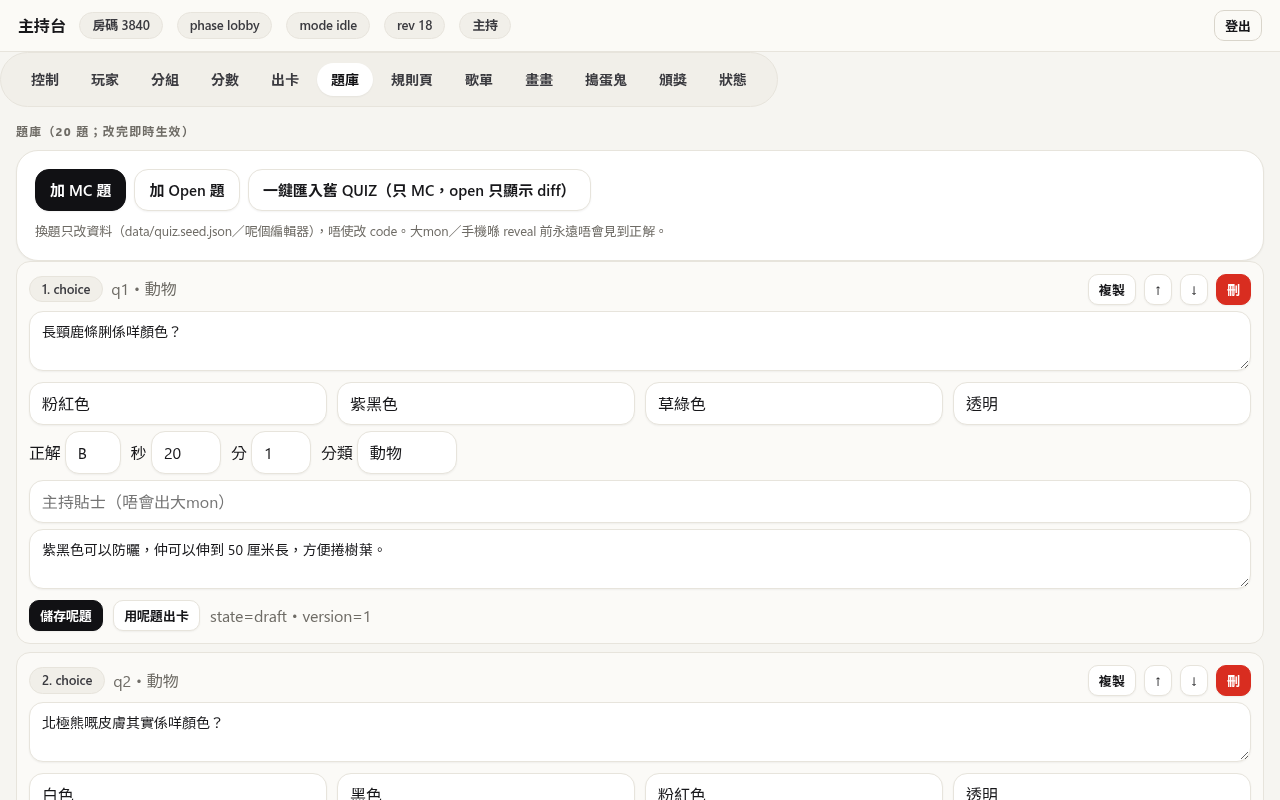
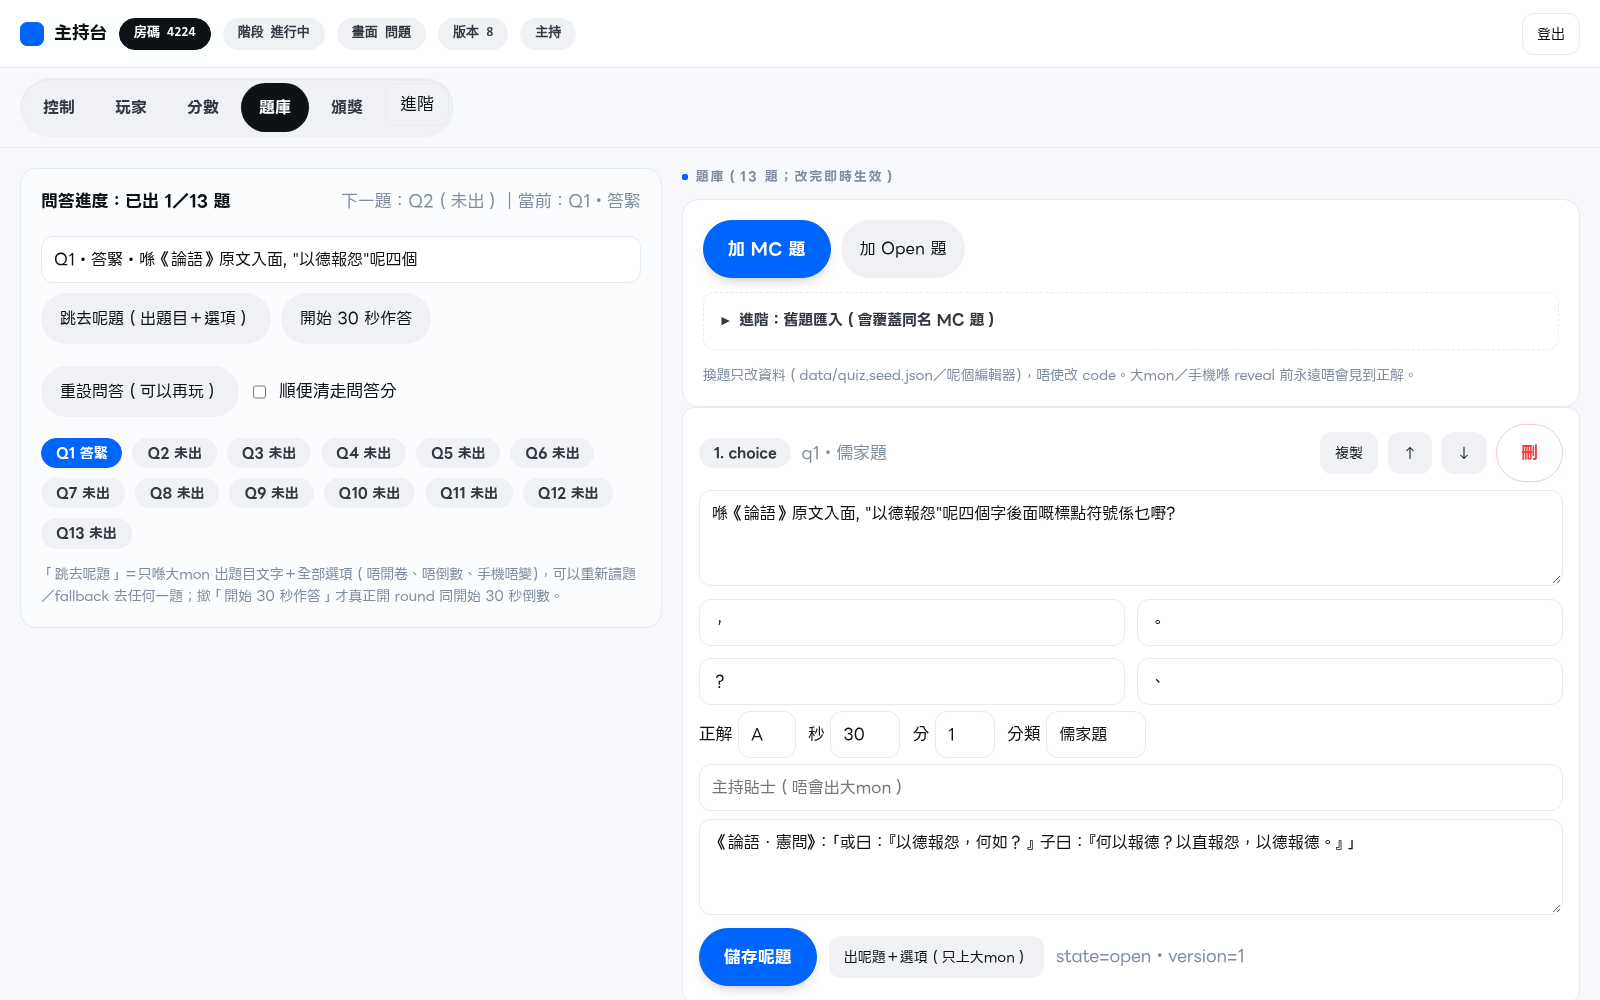
docs(readme): 更新至 v0.4.6＋重拍三端截圖
- README 由 v0.2.0 舊內容改成現行 v0.4.6：四關玩法、計分、架構、測試、部署
- 重拍 8 張真 browser 截圖（大mon 入場／規則／問答／分數板、主持台控制／題庫、手機入場／問答）
- 修正一圖多人規則頁「最後未被 foul：每人 +2」為「未被 foul 嘅臥底留到最後：再 +2」（跟 v0.4.6 計分）

diff --git a/README.md b/README.md
@@ -2,28 +2,41 @@
 
 > 一個為生日派對而設嘅本地多人派對遊戲平台：**一個後端、三個前端（大mon／主持台／手機）、四關遊戲、一套 6 種卡嘅引擎**。
 > 派對主題：**《關於我初試策劃圍威喂這檔事》**
-> 現時版本：**v0.2.0**（Doubao 淺色視覺 ＋ 大mon 專用字體）
+> 現時版本：**v0.4.6**（Doubao 淺色視覺 ＋ 大mon 思緒重生體）
 
 ## 呢個 repo 係咩
 
-- 全部 TypeScript（strict）＋ Node 26 LTS（fastify + @fastify/websocket + @fastify/static），單 process。
-- 部署目標：Windows server Docker，host port `30005` → 容器 `3000`；對外經 Cloudflare Tunnel。
-- 四關遊戲：**拍賣估歌／畫畫猜人／搗蛋鬼／常識問答**；每關有規則頁（大mon 入關自動顯示、後台可編輯）。
+- 全部 TypeScript（strict）＋ Node 26 LTS（fastify + `@fastify/websocket` + `@fastify/static`），單 process。
+- 部署目標：Windows server Docker，host port `30005` → 容器 `3000`；對外經 Cloudflare Tunnel（`/host` 同 `/api/host/*` 再加 Cloudflare Access）。
+- 四關跟壽星流程：**一圖多人畫畫猜／拍賣時間估歌／笨蛋殺手／問答環節**；每關有規則頁（大mon 入關自動顯示、主持台可編輯）。
 - 計分＝**事件帳簿**（加錯用 void 標記作廢，唔刪紀錄）；JSONL journal（manifest＋segment＋sha256＋fsync）做唯一真相，重啟 replay。
-- 手機只做單向提交（投票／問答／出價），大mon 唯讀，主持台係唯一可以改大mon 嘅人。
+- 手機只做單向提交（投票／問答／競投），大mon 唯讀，主持台係唯一可以改大mon 嘅人。
+
+## 四關遊戲（現行 v0.4.x）
+
+| 關 | 玩法 | 計分 |
+|---|---|---|
+| **一圖多人畫畫猜** | 開局抽 2 個臥底＋3 對題；每人同一張大紙輪流畫 5 秒；公佈好人題目；手機 10 秒投最似臥底；foul 晒所有臥底＝好人即刻贏，3 題後仲有臥底＝臥底贏 | 好人贏全部好人 +1／臥底贏全部臥底 +1／**未被 foul 嘅臥底留到最後再 +2** |
+| **拍賣時間估歌** | 大mon 10 秒倒數；手機撳「競投」＝當刻剩餘秒數（最少 1 秒）；**最少秒數先聽，同秒最後撳先**；主持公佈排名、自己播歌、逐位判分 | 答對 +1；答錯去下一位 |
+| **笨蛋殺手** | 主持抽 1 老闆＋1 殺手（身份只喺主持台）；紙本執行 3 粒子彈殺兩人；主持揭曉同加分 | 主持手動加分（計入分項結算） |
+| **問答環節** | 13 題、30 秒；主持可先出「題目＋選項」唔倒數，準備好先開始作答；先公佈分佈、後公佈答案；Q12 ±2 尺容差、Q13 主持即場入真實答案 | MC 答對 +1；Q13 完全答中 +2 |
+
+結算畫面有**逐關分項矩陣＋總排行榜**，頒獎三個獎：**最高分獎／中庸之道獎（最接近平均數）／多謝參與獎**。
 
 ## 功能一覽
 
 | 模組 | 內容 |
 |---|---|
-| 入場 | 手機掃 QR／用房碼入場，自訂名＋emoji 頭像，主持 approve |
+| 入場 | 手機掃 QR／用房碼入場，自訂名＋emoji 頭像，主持 approve／踢人；入場後揀頭像唔會清空個名 |
+| 流程 | 預設 rundown：一圖多人 → 拍賣 → 笨蛋殺手 → 問答；主持可上一關／跳過／重設流程（返第一關）、逐關規則頁 |
 | 計分帳簿 | 逐筆 event、undo／void、換組（跟人走／留原組）、每關 checkpoint、`/api/host/export` CSV＋room.json |
-| 問答關 | 題庫資料化（`data/quiz.seed.json`，20 題 seed）、question→tally→reveal、MC 20 秒自動收卷、open 評分、Q14 時間題自動計、重開題 roundId void |
-| 估歌關 | 密封出價（stage 只出人數）、同價先交者贏、結算 §5.1、media deck＋AudioLease（單一音源／離線接管／防雙響） |
-| 畫畫關 | 上載作品牆、vote 最似、主持評分、magic bytes／size／quota 檢查 |
-| 搗蛋鬼 | 版本 A（潛伏者）：身份只送本人、兩輪投票、淘汰、平票裁決、計分 |
-| 收尾 | finale、頒獎三獎（最高分／最接近中位數／最低分）、常駐分數條、PWA meta |
-| 穩定度 | WS 自動重連＋resync、clock offset（≤0.5s）、commandId 冪等、5 個連線 cap、production 拒啟動檢查 |
+| 一圖多人 | 完整局狀態機（抽身份／重抽／公佈題目／10 秒投票／foul／下一題／結算）；`matchUid` 令重設再玩都唔會漏派分；同票／零票有裁決路徑 |
+| 拍賣 | 密封「剩餘秒數」競投、持久提交順序判同秒、排名／判分／完結分開、零人競投可跳下一首、**唔限歌曲數**（`bid.next` 自動建卡） |
+| 問答 | 題庫資料化（13 題 seed）、出題目／開始作答／公佈分佈／公佈答案／重設問答；題目監控 panel＋可跳題；舊 payload 兼容 |
+| 大mon | Doubao 淺色、思緒重生體（數字 fallback 系統字）、QR＋房碼紙卡、規則頁、倒數 pill、分數板、排行榜、逐關結算、頒獎、ticker；26–30 人自動分欄 |
+| 主持台 | 5 個主 tab（控制／玩家／分數／題庫／頒獎）＋「進階」；大mon 同步狀態、鎖定／黑屏、緊急返 QR；流程掣 v0.4.6 統一 2×2 |
+| 手機 | 加入／等待批准／身份／投票／問答／競投／出局提示；倒數跟 server 時鐘；PWA meta＋LINE Seed TW 字體 |
+| 穩定度 | WS 自動重連＋resync、clock offset（≤0.5s）、`commandId` 冪等、連線 cap、production 拒啟動檢查、render error boundary |
 
 ## 架構
 
@@ -37,29 +50,64 @@
 ```
 
 - `/stage` `/play` `/ws` 公開；`/host` 同 `/api/host/*` 由 Cloudflare Access＋PIN 雙重保護。
-- 狀態機主從：`open → close → tally → reveal`；公開 DTO 同 server 私有模型分開（role-filtered view）。
-- 詳細規格：[`docs/PLAN-v3.1.md`](docs/PLAN-v3.1.md)（唯一權威，969 行，D1–D34）、[`docs/00-INDEX.md`](docs/00-INDEX.md)。
+- 狀態機主從：`open → close → tally → reveal`；公開 DTO 同 server 私有模型分開（role-filtered view），臥底身份／臥底題只送主持台。
+- 詳細規格：[`docs/PLAN-v3.1.md`](docs/PLAN-v3.1.md)（唯一權威）、[`docs/00-INDEX.md`](docs/00-INDEX.md)、規則頁對照：[`platform/docs/RULES-v0.4.md`](platform/docs/RULES-v0.4.md)。
+
+## 介面
+
+> 以下截圖係 **v0.4.6** 真 browser 截圖（1600×1000 大mon／主持台，430×900 手機）。
+
+| 大mon：入場 QR／房碼 | 大mon：關卡規則頁 |
+|---|---|
+| ![大mon 入場](screenshots/stage-lobby.png) | ![大mon 規則頁](screenshots/stage-rules.png) |
+
+| 大mon：問答 30 秒 | 大mon：分數板 |
+|---|---|
+| ![大mon 問答](screenshots/stage-quiz.png) | ![大mon 分數板](screenshots/stage-scoreboard.png) |
+
+| 主持台：控制 | 主持台：題庫＋題目監控 |
+|---|---|
+| ![主持台控制](screenshots/host-control.png) | ![主持台題庫](screenshots/host-quiz.png) |
+
+| 手機：入場 | 手機：問答 |
+|---|---|
+| ![手機入場](screenshots/play-join.png) | ![手機問答](screenshots/play.png) |
 
 ## 快速開始（本機）
+
+需求：Node **26.x**（`engines: >=26 <27`）。
 
 ```bash
 cd platform
 npm ci
 npm run build
-cp .env.example .env      # 設 PIN（6–12 位數字，唔准用 000000 等 default）
+cp .env.example .env      # 設 PIN（6–12 位數字，唔准用 000000／123456 等 default）
 npm start                 # http://localhost:3000/stage  /host  /play
 ```
 
-測試：
+開發模式（唔使 build）：
 
 ```bash
-npm test                  # unit（journal／計分／頒獎邊界…）
-node bots/bots.mjs        # 30 bots 併發驗收（M0）
-node bots/m1.mjs          # 問答關驗收（M1）
-node bots/m2.mjs          # 估歌＋media deck（M2）
-node bots/m3.mjs          # 畫畫（M3）
-node bots/m4.mjs          # 搗蛋鬼（M4）
-node bots/m5.mjs          # finale／頒獎／export（M5）
+PIN=246810 NODE_ENV=development npm run dev
+```
+
+想本機快速試多幾個玩家，可以開 `AUTO_APPROVE=1`（只限測試；正式場要主持逐個 approve）。
+
+## 測試
+
+```bash
+cd platform
+npm test                  # node:test：213 個 test，全部綠燈（v0.4.6）
+```
+
+`bots/` 保留 M0–M5 壓測／驗收腳本（真 HTTP＋真 WebSocket），需要先起 server：
+
+```bash
+BASE=http://127.0.0.1:3000 PIN=246810 node bots/bots.mjs   # 30 bots 併發＋連線 cap
+BASE=http://127.0.0.1:3000 PIN=246810 node bots/m1.mjs     # 問答／規則頁
+BASE=http://127.0.0.1:3000 PIN=246810 node bots/m2.mjs     # 拍賣＋media deck
+BASE=http://127.0.0.1:3000 PIN=246810 node bots/skew.mjs   # 時鐘 skew
+BASE=http://127.0.0.1:3000 PIN=246810 node bots/fault.mjs  # fault injection
 ```
 
 ## Docker 部署（Windows server）
@@ -74,54 +122,41 @@ curl http://127.0.0.1:30005/api/ready
 
 - `Dockerfile`：multi-stage（`node:26-alpine` build → runtime 只帶 `dist/`＋production deps）。
 - `docker-compose.yml`：`30005:3000`、`./data` `./media` volume、`restart: unless-stopped`、healthcheck `/api/ready`。
+- 上線要喺 Cloudflare 做兩條 Access policy（`/host`、`/api/host/*`），再設 `ACCESS_REQUIRED=1` 同正確 `PUBLIC_ORIGINS`。
 - Runbook（起機／PIN／房碼／checkpoint／熱點後路／Cloudflare 上線清單）：[`platform/RUNBOOK.md`](platform/RUNBOOK.md)。
-
-## 驗收紀錄
-
-`evidence/` 入面係每個 milestone 嘅原始測試 log（本機＋部署機各跑一次）：
-
-| Milestone | 結果 |
-|---|---|
-| M0 骨架＋部署底 | bots 22/22、fault injection 5/5、skew 極差 101ms（對照 3000ms） |
-| M1 問答＋規則頁 | 28/28 |
-| M2 估歌＋media deck | 22/22 |
-| M3 畫畫 | 10/10 |
-| M4 搗蛋鬼 | 9/9 |
-| M5 finale／頒獎／export | 11/11 |
-
-`check/` 入面係真模型（GLM-5.3／deepseek-v4-pro）逐個 milestone 嘅 code review 同最終 audit（每份報告第一行都有 `<!-- llm-call-meta -->` 記低 response_model／finish_reason）。
-
-## Screenshots
-
-| 大mon | 手機 |
-|---|---|
-| ![stage](screenshots/stage.png) | ![play](screenshots/play.png) |
-
-| 主持台 | 題庫編輯器 |
-|---|---|
-| ![host](screenshots/host-panel.png) | ![quiz](screenshots/host-quiz.png) |
-
-![rules](screenshots/rules.png)
 
 ## 目錄
 
 ```
-platform/      # app（TypeScript／Docker）
-  src/server   # fastify、WS hub、journal、commands、views
-  src/client   # stage／host／play 三端
-  bots/        # 30 bots 驗收腳本（M0–M5）
-  scripts/     # seed／manifest
-docs/          # PLAN-v3.1（唯一權威規格）、索引、交付報告
-evidence/      # 每個 milestone 原始測試 log
-check/         # 模型 review／audit 報告
-screenshots/   # 三端截圖
+platform/            # app（TypeScript／Docker）
+  src/server         # fastify、WS hub、journal、commands、views
+  src/client         # stage／host／play 三端
+  src/shared         # protocol／types
+  seed/              # 題庫、一圖多人題目、規則頁（純資料）
+  bots/              # M0–M5 壓測／驗收腳本
+  test/              # node:test unit／integration（213 個）
+  docs/RULES-v0.4.md # 四頁規則同 FLOW 對照
+  RUNBOOK.md         # 部署／現場 runbook
+docs/                # PLAN-v3.1（唯一權威規格）、索引、交付報告
+evidence/            # M0–M5 早期原始測試 log
+check/               # 模型 review／audit 報告
+screenshots/         # v0.4.6 三端截圖
 ```
 
-## Version
+## 版本
 
-**v0.1.1** — 首個公開版本：四關遊戲、規則頁、計分帳簿、Docker 部署、Cloudflare Tunnel 對外。
+| 版本 | 重點 |
+|---|---|
+| v0.1.x | 首個可部署版本：三端、四關、計分帳簿、Docker＋Cloudflare Tunnel |
+| v0.2.x | Doubao 淺色視覺、大mon 專用字體、LINE Seed TW、介面文案全中文化 |
+| v0.3.0 | 四關按壽星 FLOW 重寫：一圖多人／拍賣時間估歌／笨蛋殺手／問答；分項結算＋新頒獎 |
+| v0.4.x | 真流程掣、一圖多人計分／投票、拍賣唔限首數、問答出題目唔倒數、主持台 2×2 流程掣等連串修正 |
+| **v0.4.6** | **現行版本**（2026-11-20）：流程掣 2×2、留到最後 +2 只俾在生臥底、出局提示生命週期；tests 213 |
+
+逐版詳細改動見 [`CHANGELOG.md`](CHANGELOG.md)。
 
 ## 備註
 
-- 派對題目（quiz 內容）設計成純資料，換題唔使改 code。
+- 派對題目同規則頁設計成純資料（`platform/seed/`），換內容唔使改 code；已開房之後嘅改動喺主持台做。
 - 本 repo 唔包含任何真實 PIN、密碼或憑證；部署時自己設 `.env`。
+- 笨蛋殺手係紙本執行（系統只抽身份＋加分）；Q4 參考圖 `imageUrl` 留空，等原檔補上。
